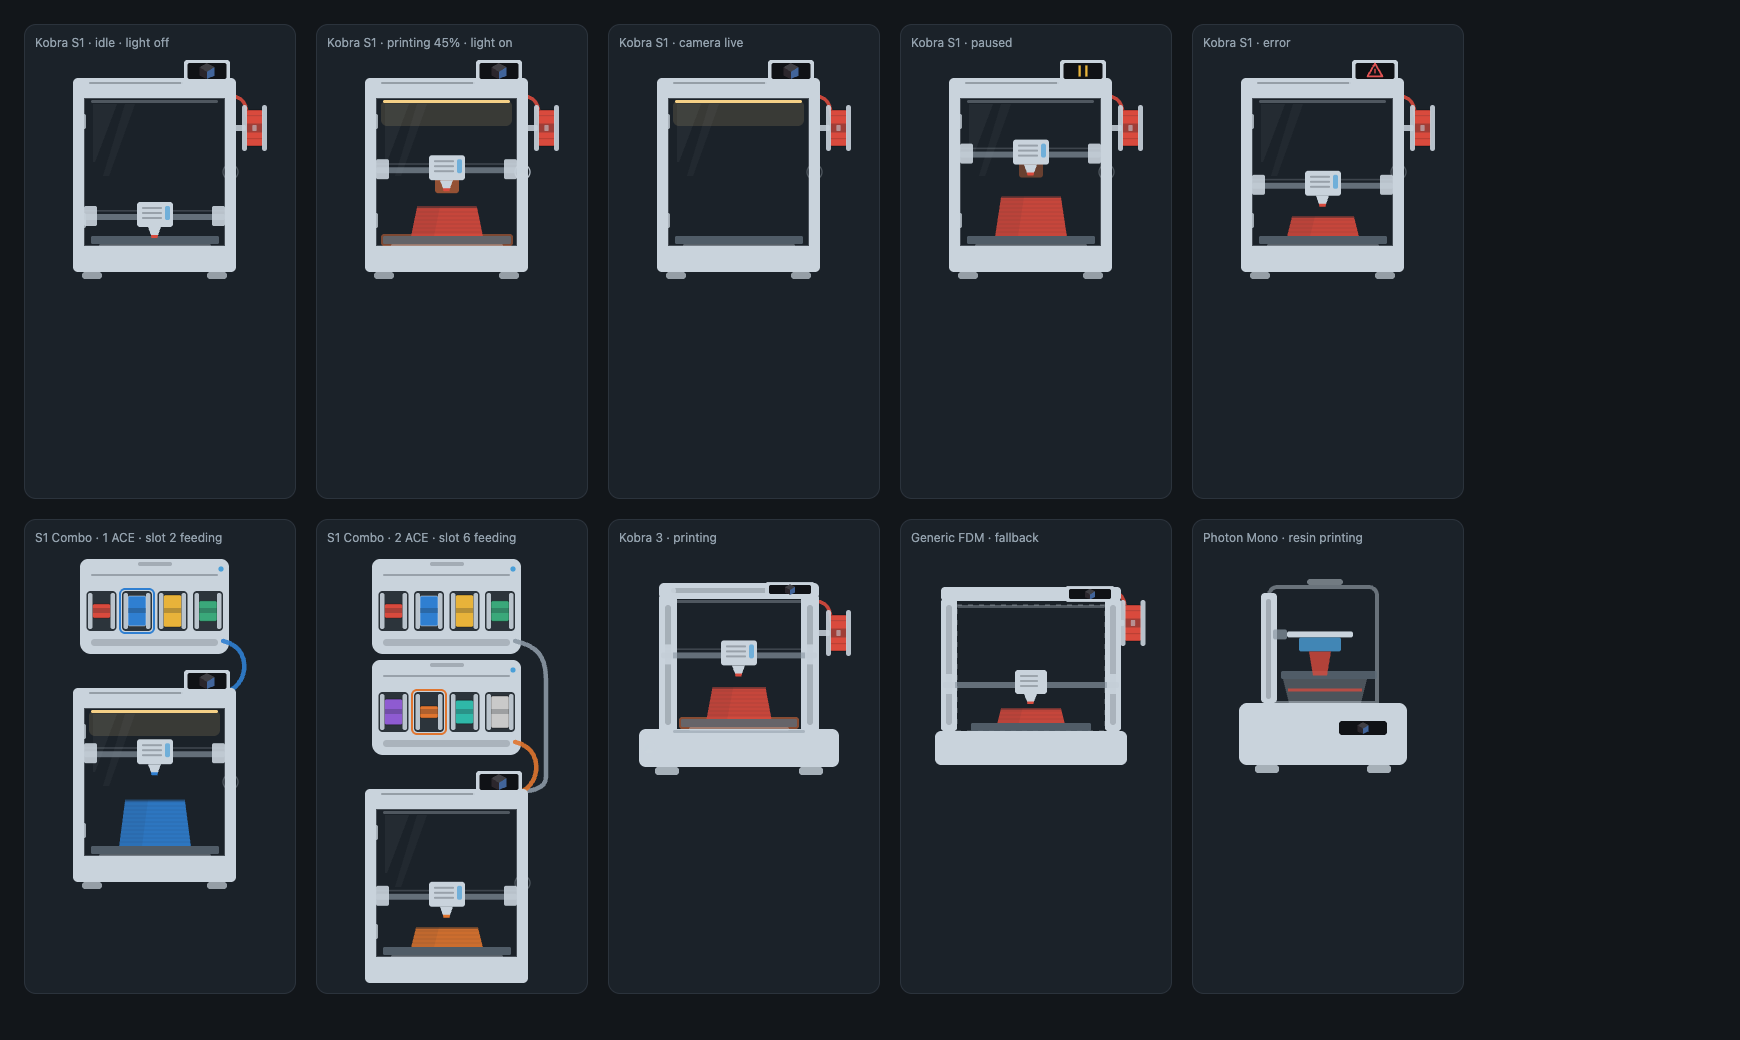
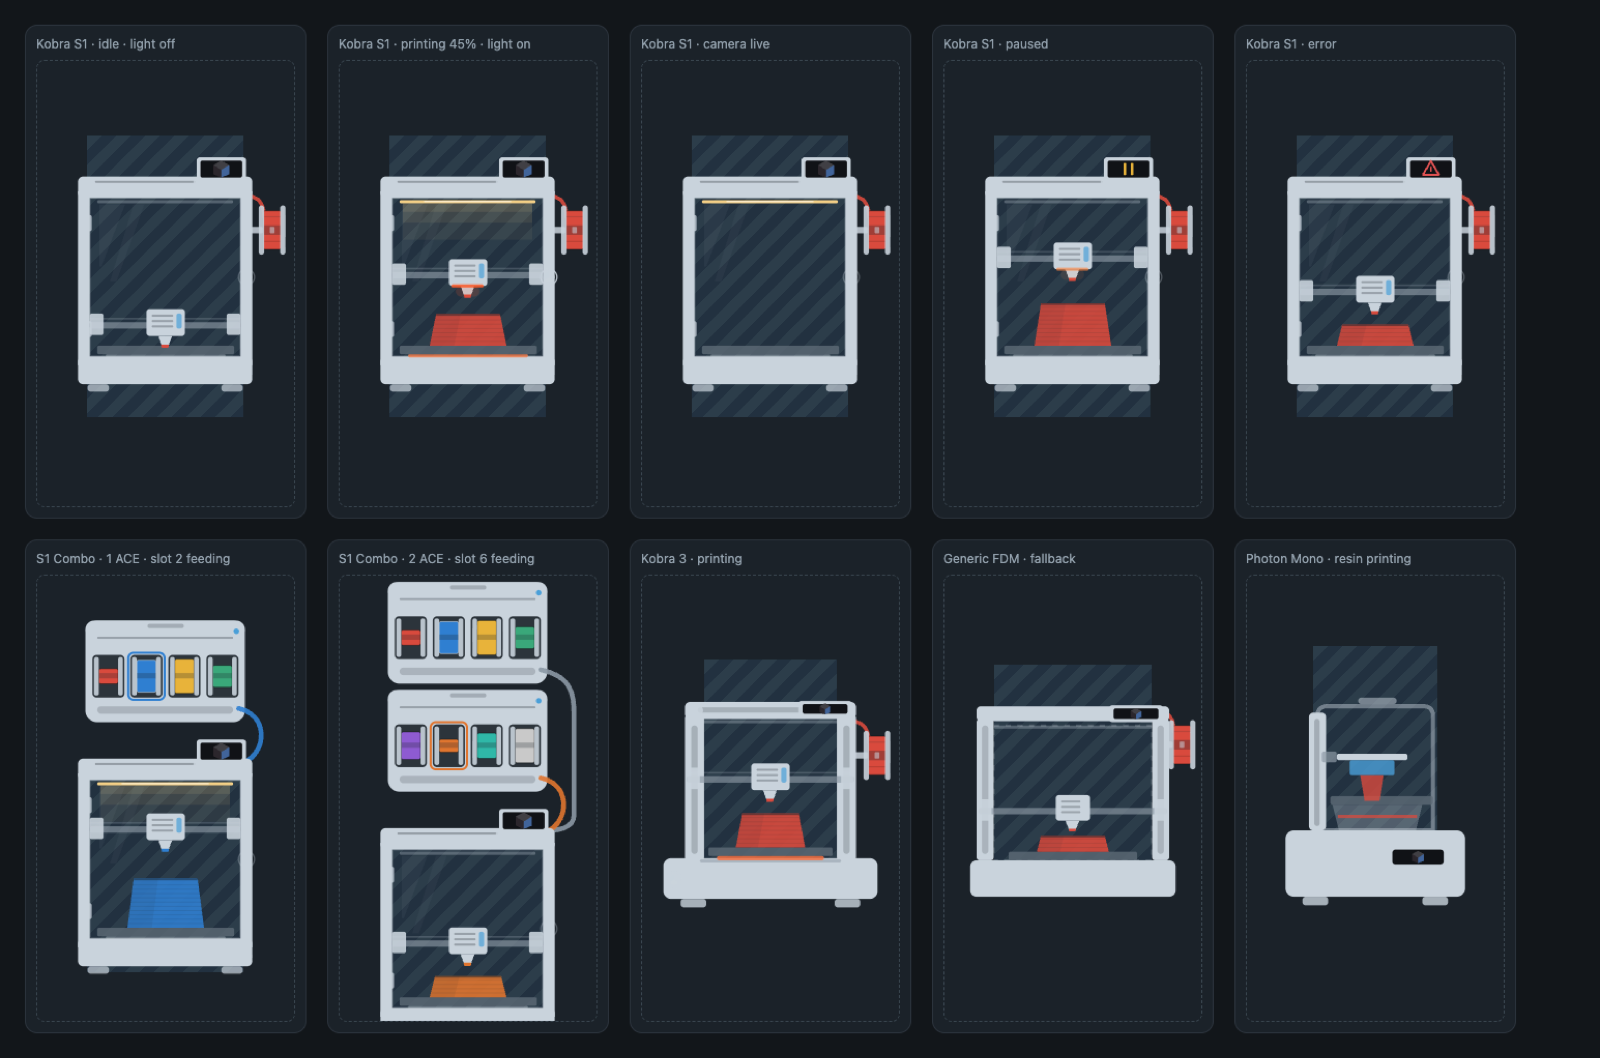
README: screenshots for the card, panel, artwork and preset gallery
Four images, all taken from the live instance or the render harness at the
build being released, under the exact names the card section already
references. The heat/light paragraph now describes the melt-zone glow and bed
element that ship, not the opacity washes they replaced.

diff --git a/README.md b/README.md
@@ -952,8 +952,12 @@ lightEntityId: light.anycubic_kobra_s1_printer_light
 The printer graphic is drawn live from the machine's own state — it is telemetry, not
 decoration. The chamber light is your light entity, the reels are the colours and fill levels
 the ACE reports, the feed tube runs from whichever slot is loaded, the head sweeps while a job
-runs, heat washes over the nozzle and bed as they approach their targets, and the screen shows
-idle / printing / paused / error as the printer does.
+runs, and the screen shows idle / printing / paused / error as the printer does. Heat is drawn
+where heat lives: the hotend's melt zone glows and the heater element under the bed comes up to
+colour, both ramping amber to orange-red as each heater approaches its own target — so a glance
+tells you *warming*, *at temperature* or *still cooling* without reading a number. The chamber
+light is a lit strip that actually casts into the chamber, and it is your light entity: off on
+the machine is off on the card.
 
 ![Every printer body and state](docs/images/printer-artwork.png)
 
